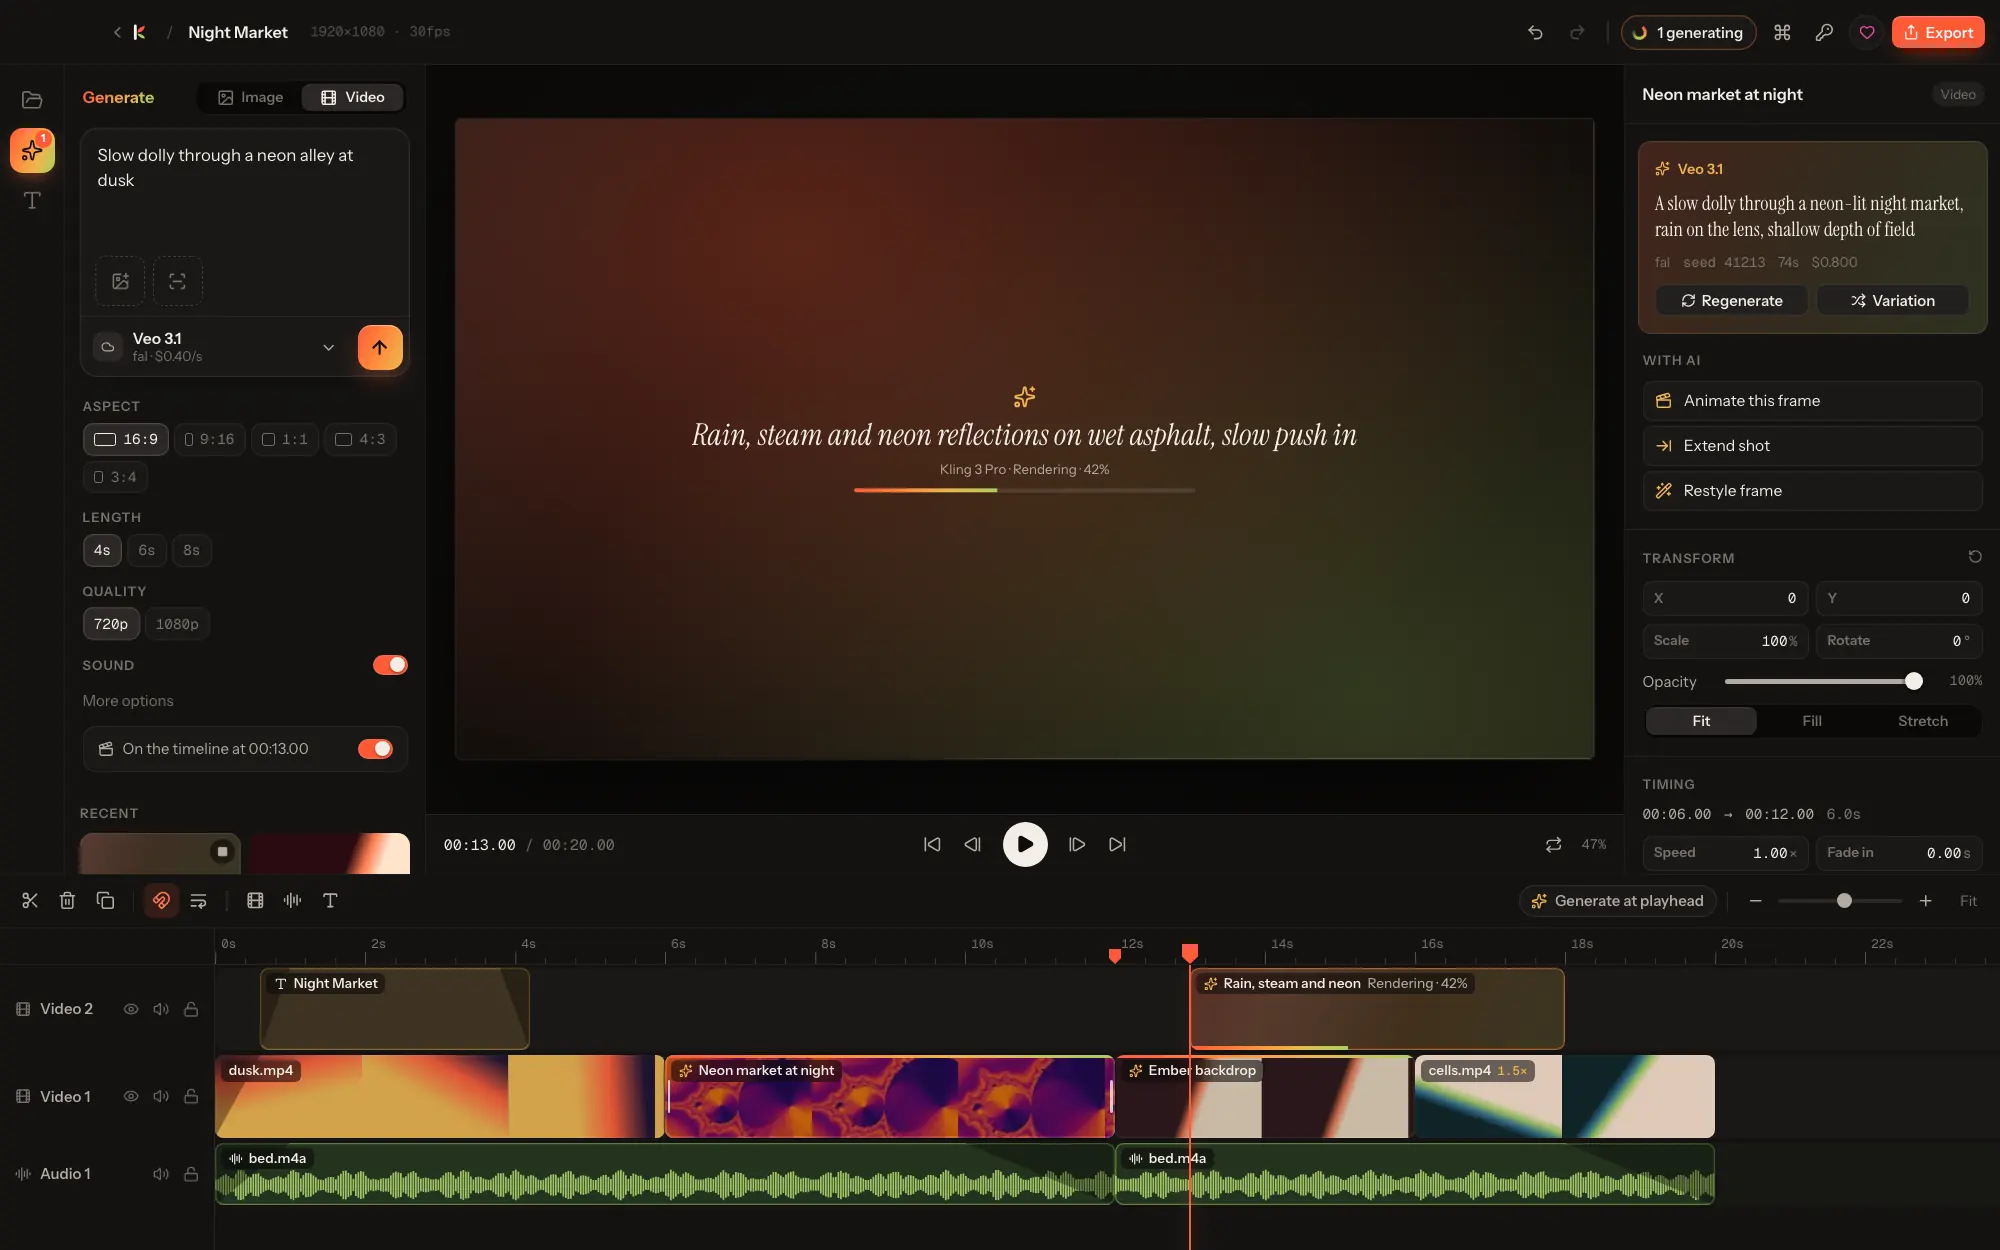
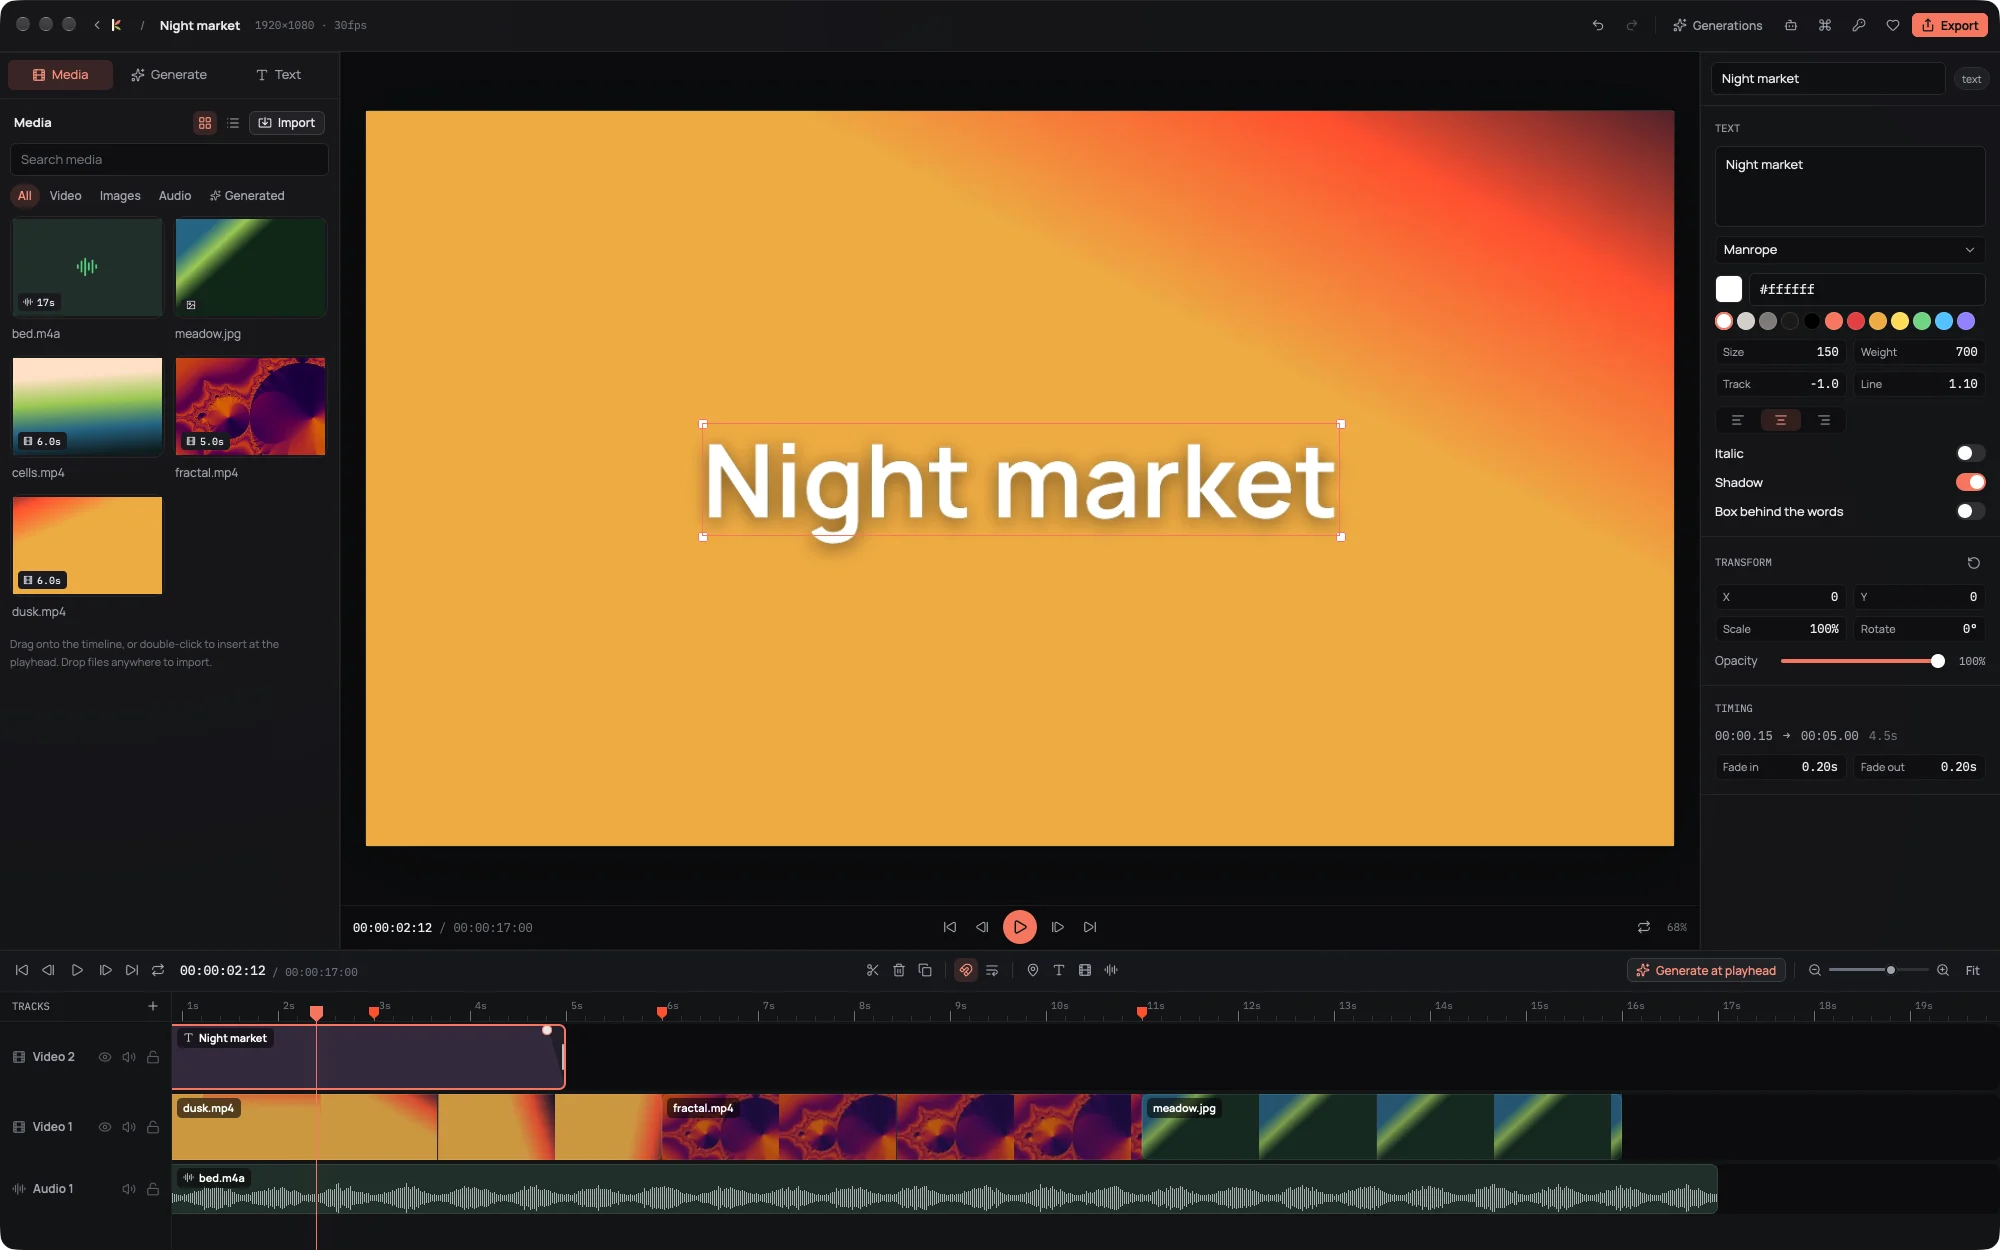
kimchi page for 0.4.0: native GPUI app, AI control, new screenshots (dark and light)

diff --git a/kimchi/index.html b/kimchi/index.html
@@ -4,7 +4,7 @@
   <meta charset="utf-8">
   <meta name="viewport" content="width=device-width, initial-scale=1">
   <title>kimchi — the open-source video editor where generation is part of the cut · lsuite</title>
-  <meta name="description" content="kimchi is a free, open-source desktop video editor with a Rust core and a built-in harness for image and video models: generate at the playhead, animate a frame, extend a shot, bridge two clips. Bring your own keys, or run everything locally.">
+  <meta name="description" content="kimchi is a free, open-source desktop video editor, native and written in Rust, with a built-in harness for image and video models: generate at the playhead, animate a frame, extend a shot, bridge two clips. Your AI can drive all of it through MCP, a CLI or the built-in agent.">
   <meta name="theme-color" content="#0b0c0f" media="(prefers-color-scheme: dark)">
   <meta name="theme-color" content="#eef0f4" media="(prefers-color-scheme: light)">
   <link rel="canonical" href="%ORIGIN%/kimchi">
@@ -41,11 +41,14 @@
         <a class="btn" href="#downloads">All platforms</a>
         <a class="btn" href="https://github.com/ludovic111/kimchi">Source on GitHub</a>
       </div>
-      <p class="fine hero__fine reveal" style="--d:4">Version %VERSION:kimchi% · free and MIT licensed · macOS, Windows, Linux · Rust core · bring your own keys, or run everything locally</p>
+      <p class="fine hero__fine reveal" style="--d:4">Version %VERSION:kimchi% · free and MIT licensed · macOS, Windows, Linux · native Rust app · drivable by your AI · bring your own keys, or run everything locally</p>
     </div>
     <div class="wrap">
       <figure class="shot shot--hero reveal" style="--d:3">
-        <img src="/assets/img/kimchi/editor.webp" width="2000" height="1250" alt="kimchi's editor: the generate panel, a shot rendering in the preview, provenance for a generated clip and a multi-track timeline" fetchpriority="high">
+        <picture>
+          <source srcset="/assets/img/kimchi/editor-light.webp" media="(prefers-color-scheme: light)">
+          <img src="/assets/img/kimchi/editor.webp" width="2000" height="1250" alt="kimchi's editor: media, the preview with a title being placed, the inspector's text style and a timeline with video, a still, a title and music" fetchpriority="high">
+        </picture>
       </figure>
     </div>
   </section>
@@ -55,7 +58,7 @@
       <div class="stats reveal">
         <div><b>15</b><span>model providers, cloud and local</span></div>
         <div><b>6</b><span>export formats, one ffmpeg graph</span></div>
-        <div><b>3</b><span>operating systems</span></div>
+        <div><b>84</b><span>commands, for you and your AI alike</span></div>
         <div><b>0</b><span>accounts, subscriptions, telemetry</span></div>
       </div>
     </div>
@@ -135,21 +138,21 @@
     <div class="wrap split split--top">
       <div class="stack">
         <span class="eyebrow">Agents and scripts</span>
-        <h2 class="h2 reveal" id="agent-title">The engine, without the window.</h2>
-        <p class="lede reveal" style="--d:1">The <code>kimchi</code> command runs the same Rust harness and renderer as the app: list providers and models, generate with any of them, and render a project headless. Projects are plain JSON and every edit is plain data, so an agent can read and write them directly.</p>
-        <p class="muted reveal" style="--d:2">An MCP server, so Claude Code, Codex and any MCP client can drive the open project live, is the next step on the way to the lsuite standard.</p>
+        <h2 class="h2 reveal" id="agent-title">Your AI can cut too.</h2>
+        <p class="lede reveal" style="--d:1">Everything you can do in the window is a named command, and the window, the built-in agent, <code>kimchi-cli</code> and <code>kimchi-mcp</code> all use the same ones, with one undo history. Claude Code, Codex or any MCP client can drive the open project live; scripts can work on a project file without the app.</p>
+        <p class="muted reveal" style="--d:2">The Agent panel runs the model you already have (Claude Code, Codex, an Anthropic or OpenAI key, or a local Ollama model), shows one card per command and reverts a whole run in one click. You decide what agents may touch: files, projects, generation, settings. And kimchi hands a cut to <a href="/ryolune">ryolune</a> to score it, then takes the music back.</p>
       </div>
-      <div class="code reveal" style="--d:1"><pre><span class="line"><span class="c"># what is ready, and what each provider offers</span></span>
-<span class="line">kimchi providers</span>
-<span class="line">kimchi models fal</span>
+      <div class="code reveal" style="--d:1"><pre><span class="line"><span class="c"># Claude Code drives the running app</span></span>
+<span class="line">claude mcp add kimchi -- /Applications/kimchi.app/Contents/MacOS/kimchi-mcp --live</span>
 <span class="line"></span>
-<span class="line"><span class="c"># generate: images, or video with --video</span></span>
-<span class="line">kimchi generate fal fal-ai/flux-2-pro "Night market, rain, neon" --aspect 16:9 --count 2</span>
-<span class="line">kimchi generate fal fal-ai/kling-video/v3/pro/image-to-video "Slow push in" \</span>
-<span class="line">    --video --image frame.png --duration 5</span>
+<span class="line"><span class="c"># or any script, on the app or a project file</span></span>
+<span class="line">kimchi-cli project.overview</span>
+<span class="line">kimchi-cli generate.extendClip --clipId "Night market" --prompt "slow push in"</span>
+<span class="line">kimchi-cli --file cut.json clip.addText text="Opening title" start=0</span>
+<span class="line">kimchi-cli export.start path=cut.mp4 quality=high wait=true</span>
 <span class="line"></span>
-<span class="line"><span class="c"># render a project, no window needed</span></span>
-<span class="line">kimchi render night-market.json night-market.mp4 --format mp4 --quality high</span></pre></div>
+<span class="line"><span class="c"># send the cut to ryolune to score it</span></span>
+<span class="line">kimchi-cli handoff.toRyolune</span></pre></div>
     </div>
   </section>
 
@@ -158,15 +161,15 @@
       <div class="section__head">
         <span class="eyebrow">Download</span>
         <h2 class="h2 reveal" id="downloads-title">Download kimchi</h2>
-        <p class="lede reveal" style="--d:1">ffmpeg is bundled. kimchi checks for updates on launch and installs them in one click; updates are signed.</p>
+        <p class="lede reveal" style="--d:1">ffmpeg, <code>kimchi-cli</code> and <code>kimchi-mcp</code> are bundled. kimchi checks for updates on launch and installs them in one click; updates are signed and verified before anything is replaced.</p>
       </div>
       <div class="dl reveal">
         <a href="/kimchi/download/macos-arm64" data-os-match="macos"><b><svg viewBox="0 0 24 24" fill="currentColor" aria-hidden="true"><path d="M16.4 12.6c0-2.4 2-3.6 2.1-3.7-1.1-1.7-2.9-1.9-3.5-1.9-1.5-.2-2.9.9-3.7.9-.8 0-1.9-.9-3.2-.8-1.6 0-3.1 1-4 2.4-1.7 3-.4 7.4 1.2 9.8.8 1.2 1.8 2.5 3 2.4 1.2 0 1.7-.8 3.2-.8s1.9.8 3.2.8c1.3 0 2.2-1.2 3-2.4.9-1.4 1.3-2.7 1.3-2.8 0 0-2.6-1-2.6-3.9zM14 5.5c.7-.8 1.1-1.9 1-3-1 0-2.1.6-2.8 1.4-.6.7-1.2 1.8-1 2.9 1 .1 2.1-.5 2.8-1.3z"/></svg>macOS · Apple silicon</b><span>.dmg · signed and notarized</span></a>
         <a href="/kimchi/download/macos-x86_64"><b><svg viewBox="0 0 24 24" fill="currentColor" aria-hidden="true"><path d="M16.4 12.6c0-2.4 2-3.6 2.1-3.7-1.1-1.7-2.9-1.9-3.5-1.9-1.5-.2-2.9.9-3.7.9-.8 0-1.9-.9-3.2-.8-1.6 0-3.1 1-4 2.4-1.7 3-.4 7.4 1.2 9.8.8 1.2 1.8 2.5 3 2.4 1.2 0 1.7-.8 3.2-.8s1.9.8 3.2.8c1.3 0 2.2-1.2 3-2.4.9-1.4 1.3-2.7 1.3-2.8 0 0-2.6-1-2.6-3.9zM14 5.5c.7-.8 1.1-1.9 1-3-1 0-2.1.6-2.8 1.4-.6.7-1.2 1.8-1 2.9 1 .1 2.1-.5 2.8-1.3z"/></svg>macOS · Intel</b><span>.dmg · signed and notarized</span></a>
-        <a href="/kimchi/download/windows-x86_64" data-os-match="windows"><b><svg viewBox="0 0 24 24" fill="currentColor" aria-hidden="true"><path d="M3 5.5l7.5-1v7H3zm0 13l7.5 1v-7H3zm8.5 1.2L21 21v-8.5h-9.5zm0-15.4v7.2H21V3z"/></svg>Windows · 64-bit</b><span>.exe installer</span></a>
+        <a href="/kimchi/download/windows-x86_64" data-os-match="windows"><b><svg viewBox="0 0 24 24" fill="currentColor" aria-hidden="true"><path d="M3 5.5l7.5-1v7H3zm0 13l7.5 1v-7H3zm8.5 1.2L21 21v-8.5h-9.5zm0-15.4v7.2H21V3z"/></svg>Windows · 64-bit</b><span>.exe installer · or portable .zip</span></a>
         <a href="/kimchi/download/linux-appimage" data-os-match="linux"><b><svg viewBox="0 0 24 24" fill="none" stroke="currentColor" stroke-width="1.8" aria-hidden="true"><rect x="4" y="4" width="16" height="16" rx="3"/><path d="M8 10l3 2-3 2M13 15h3" stroke-linecap="round" stroke-linejoin="round"/></svg>Linux · AppImage</b><span>.AppImage · x86-64</span></a>
       </div>
-      <p class="fine reveal" style="margin-top: 18px;">Also: <a href="/kimchi/download/windows-msi">Windows .msi</a> · <a href="/kimchi/download/linux-deb">Linux .deb</a> · <a href="/kimchi/download/linux-rpm">Linux .rpm</a> · <a href="https://github.com/ludovic111/kimchi/releases">All releases</a>. The macOS build is signed and notarized by Apple.</p>
+      <p class="fine reveal" style="margin-top: 18px;">Also: <a href="/kimchi/download/linux-deb">Linux .deb</a> · <a href="https://github.com/ludovic111/kimchi/releases">All releases</a>. The macOS build is signed and notarized by Apple.</p>
     </div>
   </section>
 
@@ -177,7 +180,7 @@
         <h2 class="h2" id="support-title">Free, open source, yours to fork.</h2>
         <p class="lede" style="margin-inline:auto">kimchi is MIT licensed with every feature included. Model providers bill you directly for what you generate; kimchi takes nothing in between. Donations keep it moving.</p>
         <div class="hero__actions" style="justify-content:center">
-          <a class="btn btn--primary btn--heart" href="https://github.com/sponsors/ludovic111"><svg viewBox="0 0 16 16" fill="currentColor" aria-hidden="true"><path d="M8 14.25s-5.75-3.4-5.75-7.6A3.15 3.15 0 015.4 3.5c1.1 0 2 .55 2.6 1.4.6-.85 1.5-1.4 2.6-1.4a3.15 3.15 0 013.15 3.15c0 4.2-5.75 7.6-5.75 7.6z"/></svg>Sponsor on GitHub</a>
+          <a class="btn btn--primary btn--heart" href="/kimchi/support"><svg viewBox="0 0 16 16" fill="currentColor" aria-hidden="true"><path d="M8 14.25s-5.75-3.4-5.75-7.6A3.15 3.15 0 015.4 3.5c1.1 0 2 .55 2.6 1.4.6-.85 1.5-1.4 2.6-1.4a3.15 3.15 0 013.15 3.15c0 4.2-5.75 7.6-5.75 7.6z"/></svg>Sponsor on GitHub</a>
           <a class="btn" href="https://github.com/ludovic111/kimchi">Star on GitHub</a>
         </div>
       </div>
